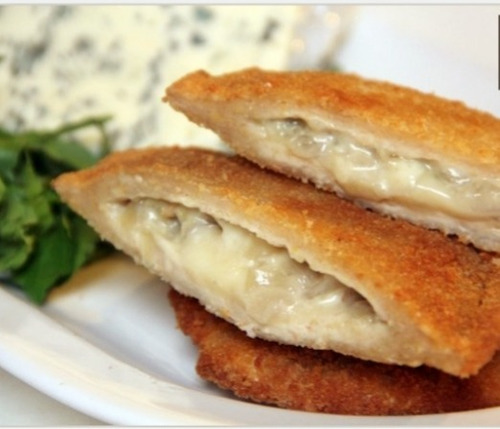
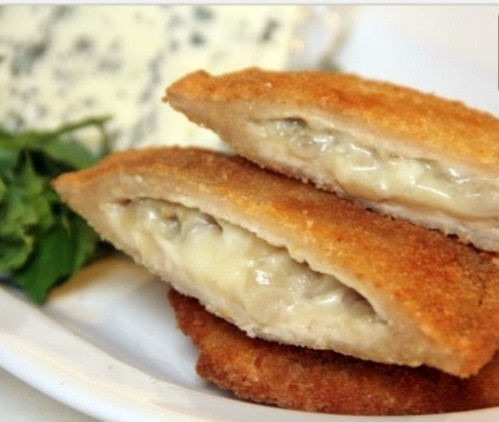
carusel agregado

diff --git a/paginas/especiales.html b/paginas/especiales.html
@@ -28,25 +28,30 @@
 
                 <ul>
                     <li class="item-list"><a href="../index.html">inicio</a></li>
-                    <li class="item-list"><a href="./acerca_de_nosotros.html">acerca de nosotros</a></li>
+                    <li class="item-list"><a href="./acerca_de_nosotros.html">Nosotros</a></li>
                     <li class="item-list"><a href="./productos.html">productos</a></li>
                     <li class="item-list"><a href="./especiales.html">especiales</a></li>
                     <li class="item-list"><a href="./contacto.html">contacto</a></li>
                 </ul>
             </nav>
         </header>
+        <div>
+            <h2 class="h2-1">especiales</h2>
+        </div>
         <main>
             <!--CAROUSEL BOOSTRAP-->
             <div id="carouselExampleFade" class="carousel slide carousel-fade" data-bs-ride="carousel">
                 <div class="carousel-inner">
                     <div class="carousel-item active">
-                        <img src="../assnt/imagenes/relleno.png" class="d-block w-100" alt="milanesa soja rellena">
+                        <img src="../assnt/imagenes/relleno.png" class="d-block w-100 img_relleno" alt="milanesa soja rellena">
                     </div>
                     <div class="carousel-item">
-                        <img src="../assnt/imagenes/rellena.png" class="d-block w-100" alt="milanesa soja queso">
+                        <img src="../assnt/imagenes/rellena.png" class="d-block w-100 img_relleno" alt="milanesa soja queso">
                     </div>
+                    
                     <div class="carousel-item">
-                        <img src="../assnt/imagenes/soja rellana queso.jpg" class="d-block w-100" alt="milanesa verenjena queso">
+                        <img src="../assnt/imagenes/verenjena rellena queso.jpg" class="d-block w-100 img_relleno"
+                            alt="milanesa verenjena queso">
                     </div>
                 </div>
                 <button class="carousel-control-prev" type="button" data-bs-target="#carouselExampleFade"
@@ -74,6 +79,9 @@
                     odio. Atque
                     nam, assumenda iure eum est totam harum quae aperiam eveniet incidunt itaque nihil vel accusantium.
                 </p>
+                <div>
+                    <h2 class="h2-1">acompañamiento</h2>
+                </div>
                 <div id="carouselExampleCaptions" class="carousel slide" data-bs-ride="false">
                     <div class="carousel-indicators">
                         <button type="button" data-bs-target="#carouselExampleCaptions" data-bs-slide-to="0"
@@ -85,21 +93,23 @@
                     </div>
                     <div class="carousel-inner">
                         <div class="carousel-item active">
-                            <img src="../assnt/imagenes/papas con morrones.jpg" class="d-block w-100" alt="fritas con morrones">
+                            <img src="../assnt/imagenes/papas con morrones.jpg" class="d-block w-100 img_relleno"
+                                alt="fritas con morrones">
                             <div class="carousel-caption d-none d-md-block">
                                 <h5>acompañamiento</h5>
                                 <p>Papas fritas con morrones.</p>
                             </div>
                         </div>
                         <div class="carousel-item">
-                            <img src="../assnt/imagenes/especial relleno.png" class="d-block w-100" alt="tomate relleno">
+                            <img src="../assnt/imagenes/especial relleno.png" class="d-block w-100 img_relleno"
+                                alt="tomate relleno">
                             <div class="carousel-caption d-none d-md-block">
                                 <h5>acompañamiento</h5>
                                 <p>tomate relleno.</p>
                             </div>
                         </div>
                         <div class="carousel-item">
-                            <img src="../assnt/imagenes/acompañamiento especiales.png" class="d-block w-100" alt="...">
+                            <img src="../assnt/imagenes/acompañamiento especiales.png" class="d-block w-100 img_relleno" alt="hongos salteados">
                             <div class="carousel-caption d-none d-md-block">
                                 <h5>acompañamiento</h5>
                                 <p>hongos salteados</p>

diff --git a/css/style.css b/css/style.css
@@ -33,6 +33,9 @@ header {
     justify-content: space-between;
     padding: 0 10px;
 }
+.item-list{
+    z-index: 20;
+}
 
 .titulo h1 {
     font-size: 34px;
@@ -127,12 +130,19 @@ header {
     margin-left: 25px;
     margin-right: 25px;
 }
+
+.img_relleno{
+    height: 500px;
+    
+}
+
 /*transfor*/
 .h2-1 {
     color: black;
     font-family: 'Unbounded', cursive;
     display: flex;
     justify-content: center;
+    font-size: 37px;
 }
 .h2-2{
 background-color: rgba(165, 149, 1, 0.623);
@@ -163,9 +173,7 @@ transform-style: preserve-3d;
     bottom: 0;
     width: 100%;
 }
-.item-list{
-    z-index: 1;
-}
+
 
 /*media query*/
 @media screen and (max-width:900px) {

diff --git a/index.html b/index.html
@@ -24,7 +24,7 @@
             <nav class="nav__bar">
                 <ul>
                     <li class="item-list"><a href="./index.html">inicio</a></li>
-                    <li class="item-list"><a href="./paginas/acerca_de_nosotros.html">acerca de nosotros</a></li>
+                    <li class="item-list"><a href="./paginas/acerca_de_nosotros.html">Nosotros</a></li>
                     <li class="item-list"><a href="./paginas/productos.html">productos</a></li>
                     <li class="item-list"><a href="./paginas/especiales.html">especiales</a></li>
                     <li class="item-list"><a href="./paginas/contacto.html">contacto</a></li>

diff --git a/paginas/acerca_de_nosotros.html b/paginas/acerca_de_nosotros.html
@@ -24,7 +24,7 @@
                 <nav class="nav__bar">
                     <ul>
                         <li class="item-list"><a href="../index.html">inicio</a></li>
-                        <li class="item-list"><a href="./acerca_de_nosotros.html">acerca de nosotros</a></li>
+                        <li class="item-list"><a href="./acerca_de_nosotros.html">Nosotros</a></li>
                         <li class="item-list"><a href="./productos.html">productos</a></li>
                         <li class="item-list"><a href="./especiales.html">especiales</a></li>
                         <li class="item-list"><a href="./contacto.html">contacto</a></li>

diff --git a/paginas/productos.html b/paginas/productos.html
@@ -24,7 +24,7 @@
             <nav class="nav__bar">
                 <ul>
                     <li class="item-list"><a href="../index.html">inicio</a></li>
-                    <li class="item-list"><a href="./acerca_de_nosotros.html">acerca de nosotros</a></li>
+                    <li class="item-list"><a href="./acerca_de_nosotros.html">Nosotros</a></li>
                     <li class="item-list"><a href="./productos.html">productos</a></li>
                     <li class="item-list"><a href="./especiales.html">especiales</a></li>
                     <li class="item-list"><a href="./contacto.html">contacto</a></li>

diff --git a/paginas/contacto.html b/paginas/contacto.html
@@ -26,7 +26,7 @@
       <nav class="nav__bar">
         <ul>
           <li class="item-list"><a href="../index.html">inicio</a></li>
-          <li class="item-list"><a href="./acerca_de_nosotros.html">acerca de nosotros</a></li>
+          <li class="item-list"><a href="./acerca_de_nosotros.html">nosotros</a></li>
           <li class="item-list"><a href="./productos.html">productos</a></li>
           <li class="item-list"><a href="./especiales.html">especiales</a></li>
           <li class="item-list"><a href="./contacto.html">contacto</a></li>
